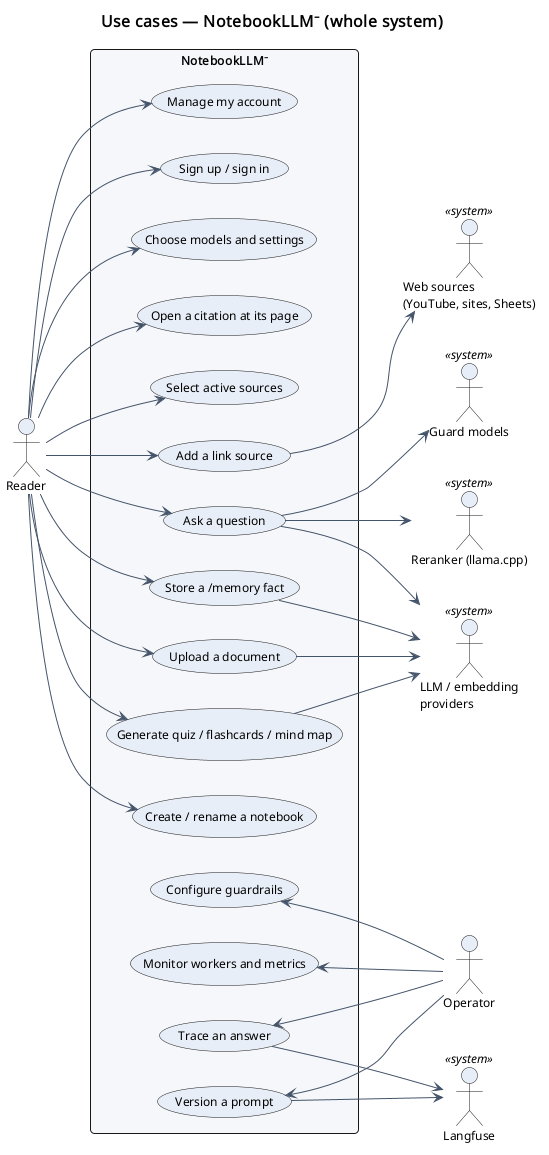
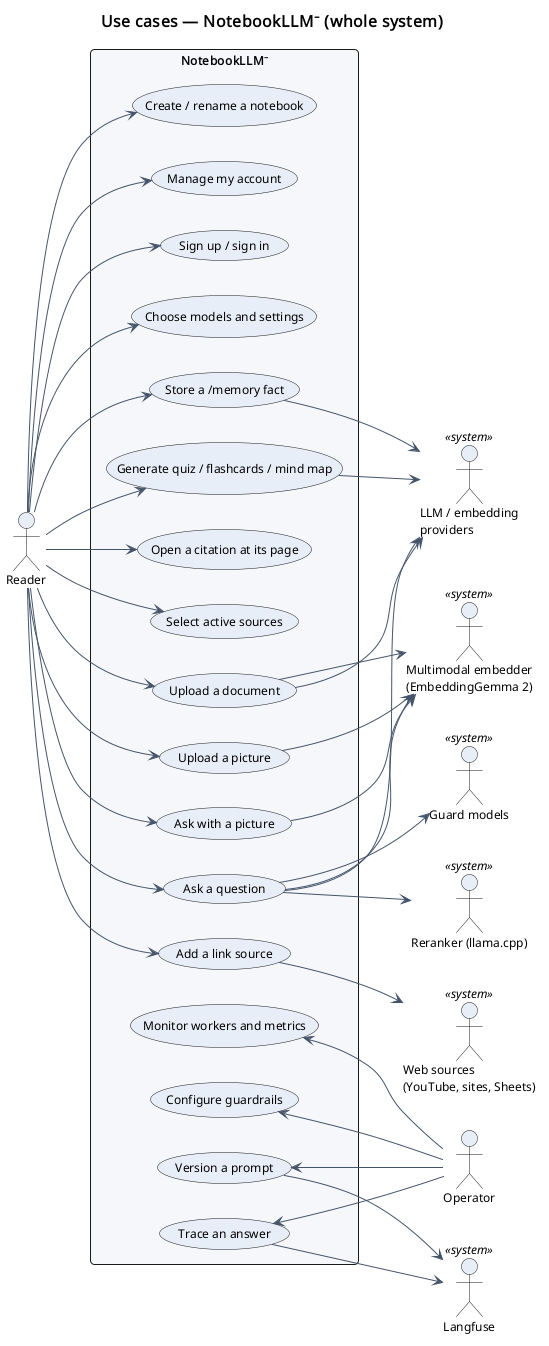
UML for multimodal retrieval
Epic 8 user stories, multimodal use cases, image_ingest and
image_query_answer sequences, a multimodal class diagram, and the
whole-system diagrams updated. Rendered.

diff --git a/software_engineering/README.md b/software_engineering/README.md
@@ -2,7 +2,7 @@
 
 UML for NotebookLLM⁻, written in PlantUML. Every `.puml` has its rendered `.png` committed next
 to it. The diagrams describe the system as it is now, including accounts and per-user isolation,
-agentic answering, reranking, guardrails and Langfuse. Update them in the same change as the code they describe.
+agentic answering, reranking, guardrails, Langfuse, and pictures as searchable sources (multimodal retrieval). Update them in the same change as the code they describe.
 
 ## Rendering
 
@@ -27,6 +27,7 @@ different jar. `_style.iuml` holds the shared look.
 | Memory and Studio | [05_memory_and_studio](1_user_stories/05_memory_and_studio.png) |
 | Settings, observability, prompt versions | [06_settings_and_operations](1_user_stories/06_settings_and_operations.png) |
 | Accounts and privacy | [07_accounts_and_privacy](1_user_stories/07_accounts_and_privacy.png) |
+| Pictures as sources (multimodal) | [08_multimodal](1_user_stories/08_multimodal.png) |
 
 ## 2. Use case diagrams — `2_use_case_diagrams/`
 
@@ -38,6 +39,7 @@ different jar. `_style.iuml` holds the shared look.
 | Studio and memory | [studio_and_memory](2_use_case_diagrams/studio_and_memory.png) |
 | Operations and observability | [operations](2_use_case_diagrams/operations.png) |
 | Accounts and privacy | [accounts](2_use_case_diagrams/accounts.png) |
+| Pictures (multimodal retrieval) | [multimodal](2_use_case_diagrams/multimodal.png) |
 
 ## 3. Sequence diagrams — `3_sequence_diagrams/`
 
@@ -53,6 +55,8 @@ different jar. `_style.iuml` holds the shared look.
 | Studio generation | [studio_generation](3_sequence_diagrams/studio_generation.png) |
 | `/memory` | [memory](3_sequence_diagrams/memory.png) |
 | Langfuse tracing and prompt versions | [langfuse_tracing](3_sequence_diagrams/langfuse_tracing.png) |
+| Pictures at ingest: find, caption, chunk, embed | [image_ingest](3_sequence_diagrams/image_ingest.png) |
+| A question with pictures, with or without vision | [image_query_answer](3_sequence_diagrams/image_query_answer.png) |
 
 ## 4. Class diagrams — `4_class_diagrams/`
 
@@ -64,3 +68,4 @@ different jar. `_style.iuml` holds the shared look.
 | Data tier: providers, repositories, models | [data_repositories](4_class_diagrams/data_repositories.png) |
 | Guardrails (LangChain middleware) and Celery jobs | [guardrails_and_tasks](4_class_diagrams/guardrails_and_tasks.png) |
 | Accounts: models, repositories, services, login layer | [accounts](4_class_diagrams/accounts.png) |
+| Pictures: embedders, index, captions, regions, vision gate | [multimodal](4_class_diagrams/multimodal.png) |
